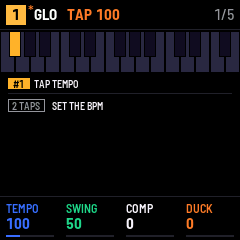
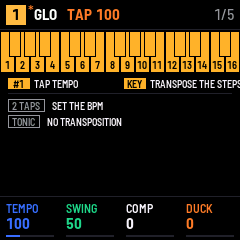
Transpose: GLO held and a key transposes every synth track's steps, in degrees of the scale with KEYS ALL, else semitones

Changed region(s): [[0.0, 0.1167, 1.0, 0.3792], [0.0292, 0.4667, 0.525, 0.5542]]

diff --git a/app/ui.c b/app/ui.c
@@ -173,7 +173,7 @@ typedef struct { q_step st; uint8_t nlocks; q_lock lk[16]; } q_clip;   /* a step
 
 /* what is on the screen, part by part: a part is drawn again when its view changes */
 typedef struct {
-    struct { int8_t track, domain, page, n, msg, pat, playing, scene, pad, ltrig, itype, punch, badge, bnum, model, dirty; uint8_t bpm; } head;   /* badge: REC's
+    struct { int8_t track, domain, page, n, msg, pat, playing, scene, pad, ltrig, itype, punch, badge, bnum, model, dirty, trans; uint8_t bpm; } head;   /* badge: REC's
                                                                                    state, 1 GRID .. 4 ARM (0 none or ARM's blink off); bnum: NOTES' step */   /* pat: P1..P8 asked; playing: the one playing when it differs, else 0;
                                                                                    pad: a KIT's in EDIT 1..16, else 0;
                                                                                    ltrig: LFO's FREE 1 / TRIG 2, else 0; itype: the insert's, in the page name */
@@ -228,6 +228,8 @@ static struct {
     int print, print_pat, print_src;           /* PRINT: the track + 1 whose pattern print_pat (of SOURCE print_src) is
                                                   written as it plays its next pass, 0 none */
     uint32_t tap_ms[4], tap_until;             /* TAP TEMPO: the last taps' times (ntap of them); its message until tap_until */
+    int transpose;                             /* GLO held, a key: the sequencer's live transposition, in KEYS' unit */
+    uint32_t trans_until;                      /* its message shown until then */
     int ntap;
     uint32_t down_ms[NB], used;                /* when each button went down; used: bit b, a key or button came while b was held */
     q_clip clip;                               /* the grid's clipboard, common to the tracks: the last step cut or chord played */
@@ -1875,14 +1877,31 @@ static void tap_tempo(void)
     ui.dirty = 1;
 }
 
+/* GLO held and a key: the synth tracks' steps transposed so that the tonic plays the key's note. KEYS ALL: in degrees of
+   the scale, white key 1 the tonic as when playing (OCT: a scale's length a step); OFF: in semitones from the tonic
+   nearest the keyboard's middle */
+static void transpose_key(int k)
+{
+    int w, deg = ui.p->keys == KEYS_ALL, t = ui.p->tonic;
+    for (w = 0; w < 16 && WHITE[w] != k; w++) {}
+    if (deg && w == 16)                 /* the black keys are silent there */
+        return;
+    ui.transpose = deg ? w + __builtin_popcount(gen_scale(ui.p)) * ui.octave
+                       : 53 + k + 12 * ui.octave - (60 + t - (t > 6 ? 12 : 0));
+    audio_transpose(ui.transpose, deg);
+    ui.trans_until = plat_ms() + MSG_MS;
+}
+
 static void key_down(int k)
 {
     q_pattern *t = pat();
     q_step *s = 0;
     int note = 53 + k + 12 * ui.octave, w, b, i;
-    if (ui.btn >> B_GLO & 1u) {         /* GLO held: black key 1 taps the tempo, the other keys nothing */
+    if (ui.btn >> B_GLO & 1u) {         /* GLO held: black key 1 taps the tempo, the other keys transpose */
         if (k == BLACK[0])
             tap_tempo();
+        else
+            transpose_key(k);
         return;
     }
     for (w = 0; w < 16 && WHITE[w] != k; w++) {}
@@ -2441,8 +2460,10 @@ static uint32_t layer_keys(int b)
     uint32_t keys = 0;
     int i;
     switch (b) {
-    case B_GLO:                         /* TAP TEMPO */
-        return 1u << BLACK[0];
+    case B_GLO:                         /* TAP TEMPO, and the keys that transpose (KEYS ALL: the white ones) */
+        for (i = 0; i < 16; i++)
+            keys |= 1u << WHITE[i];
+        return ui.p->keys == KEYS_ALL ? keys | 1u << BLACK[0] : (1u << NKEYS) - 1u;
     case B_HOME:                        /* the mutes, the scenes */
         for (i = 0; i < 16; i++)
             keys |= (uint32_t)(i < Q_TRACKS || i >= 8) << WHITE[i];
@@ -2901,7 +2922,8 @@ static void view_now(q_view *v)
     v->head.n = (int8_t)domain_n(ui.domain);
     v->head.msg = plat_ms() < ui.msg_until ? 1 : plat_ms() < ui.locks_until ? 2 : plat_ms() < ui.wipe_until ? 3 :
                   plat_ms() < ui.rnd_until ? 3 + ui.rnd_kind : plat_ms() < ui.tap_until ? 7 :
-                  plat_ms() < ui.copy_until ? 7 + ui.copy_kind : 0;
+                  plat_ms() < ui.copy_until ? 7 + ui.copy_kind : plat_ms() < ui.trans_until ? 7 + COPY_N : 0;
+    v->head.trans = (int8_t)ui.transpose;
     v->head.bpm = (uint8_t)ui.p->tempo;
     v->head.pat = (int8_t)(ui.p->pattern[ui.track] + 1);
     v->head.scene = (int8_t)ui.msg_scene;
@@ -3136,10 +3158,14 @@ static void draw_head(const q_view *v)
     if (v->head.msg) {
         x = cv_text(x + 10, 7, &FONT_B, v->head.msg == 1 ? "SAVE AT STOP" : v->head.msg == 2 ? "LOCKS FULL" : v->head.msg == 3 ? "AGAIN: ERASE"
                     : v->head.msg == 4 ? "RANDOM PAGE" : v->head.msg == 5 ? "RANDOM ALL" : v->head.msg == 6 ? "RANDOM MODEL"
-                    : v->head.msg == 7 ? "TAP" : COPY_NAME[v->head.msg - 8],
+                    : v->head.msg == 7 ? "TAP" : v->head.msg == 7 + COPY_N ? "TRANSPOSE" : COPY_NAME[v->head.msg - 8],
                     KCOL[3]);
         if (v->head.msg == 7) {         /* TAP and the tempo */
             int_text(v->head.bpm, t);
+            cv_text(x + 4, 7, &FONT_B, t, KCOL[3]);
+        } else if (v->head.msg == 7 + COPY_N) {   /* and its steps, signed */
+            t[0] = v->head.trans < 0 ? '-' : '+';
+            int_text(v->head.trans < 0 ? -v->head.trans : v->head.trans, t + 1);
             cv_text(x + 4, 7, &FONT_B, t, KCOL[3]);
         }
     } else if (v->head.punch)
@@ -3308,7 +3334,9 @@ static void draw_layer(const q_view *v, int32_t oy)
         break;
     case B_GLO:
         tags[n] = "#1", names[n++] = "TAP TEMPO";
+        tags[n] = "KEY", names[n++] = "TRANSPOSE THE STEPS";
         combo[0][0] = "2 TAPS", combo[0][1] = "SET THE BPM";
+        combo[1][0] = "TONIC", combo[1][1] = "NO TRANSPOSITION";
         break;
     case B_SEL:
         if (v->scene.lmode) {           /* NOTES: the knobs set the step without SEL */
@@ -4156,6 +4184,7 @@ int ui_expect(const char *what, int *got)
     else if (!strcmp(what, "save_at_stop")) *got = ui.save_at_stop;
     else if (!strcmp(what, "msg_wipe")) *got = plat_ms() < ui.wipe_until;
     else if (!strcmp(what, "msg_random")) *got = plat_ms() < ui.rnd_until ? ui.rnd_kind : 0;
+    else if (!strcmp(what, "transpose")) *got = ui.transpose;
     else if (!strcmp(what, "msg_copy")) *got = plat_ms() < ui.copy_until ? ui.copy_kind : 0;
     else if (!strcmp(what, "project")) *got = store_project + 1;
     else if (!strcmp(what, "msg_tap")) *got = plat_ms() < ui.tap_until;

diff --git a/app/seq.c b/app/seq.c
@@ -461,6 +461,25 @@ static int decide(q_seq *s, q_seq_track *tr, const q_step *st)
     return ok;
 }
 
+/* the note the live transposition makes of a step's note: semitones, or degrees of the project's scale (a note out of
+   the scale counts from where it is); a KIT's pads stay */
+static int transposed(const q_seq *s, const q_project *p, int t, int note)
+{
+    int d = s->transpose;
+    if (!d || p->sound[t].model == M_KIT)
+        return note;
+    if (!s->tdeg) {
+        note += d;
+    } else {
+        uint16_t m = gen_scale(p);
+        while (d > 0 && note < 127)
+            if (m >> (++note % 12) & 1) d--;
+        while (d < 0 && note > 1)
+            if (m >> (--note % 12) & 1) d++;
+    }
+    return note < 1 ? 1 : note > 127 ? 127 : note;
+}
+
 /* A tie pending from the step before: the first note-on queued is its legato. A slide ties the first note of the
    last repetition. A legato or tied note-on comes no earlier than the last one queued, so they leave the queue in
    the order planned (micro-timing can otherwise put a step's notes before the step before's) and a legato removes
@@ -478,18 +497,19 @@ static void plan_notes(q_seq *s, const q_project *p, int t, const q_step *st, in
             int64_t on = date(&tr->x, f + 4800 * j / r + strum * i), off = date(&tr->x, f + 4800 * j / r + 600 * g / r + strum * i);
             if (on < (int64_t)s->now) on = (int64_t)s->now;     /* dated before this block: at its start */
             if (!st->note[i]) continue;
+            int note = transposed(s, p, t, st->note[i]);
             int vel = acc >> i & 1 ? st->vel + 32 : st->vel;
             if (vel > 127) vel = 127;
             int tie = (st->flags & SF_SLIDE) && j == r - 1 && !hold;
             int64_t a = (tr->tie || tie) && on < from ? from : on;
             if (j == 0 && p->pat[t][tr->pat].src != SRC_STEP) {      /* a generator's: for its scene, with its frame */
                 uint32_t c = s->gcount[t] % 16u;
-                s->gnote[t][c] = st->note[i];
+                s->gnote[t][c] = (uint8_t)note;
                 s->gat[t][c] = (uint32_t)a;
                 s->gcount[t]++;
             }
             if (queue_push_on(q, (uint64_t)a, tie ? TIED : off > a ? (uint32_t)(off - a) : 0,
-                    (q_event){ 0, (uint8_t)t, st->note[i], (uint8_t)vel, 1, (uint8_t)tr->pat, (uint8_t)step,
+                    (q_event){ 0, (uint8_t)t, (uint8_t)note, (uint8_t)vel, 1, (uint8_t)tr->pat, (uint8_t)step,
                                (uint8_t)((tr->tie ? EV_LEGATO : 0) | (acc >> i & 1 ? EV_ACCENT : 0) | (j ? EV_REPEAT : 0)), 0 })) {
                 tr->tie = 0;
                 hold |= tie;

diff --git a/app/audio.c b/app/audio.c
@@ -73,6 +73,7 @@ static int fxl_pos[Q_TRACKS];
 static int duck_at;                 /* the block's first KIT BD note-on, -1 none */
 static volatile uint16_t punch_held;  /* audio_punch's: the main loop writes, the render reads */
 static volatile uint8_t fill_held;    /* audio_fill's, the same way */
+static volatile int16_t transpose_v;  /* audio_transpose's: d, degrees in bit 8 */
 static uint16_t punch_last;         /* the last block's punch-ins */
 static float punch_free;            /* stopped: the bar's position since the punch-ins began, or since the STOP */
 static float clk_c, clk_s, clk_cw, clk_sw, clk_env;   /* the click: a phasor turning by (clk_cw, clk_sw) a frame */
@@ -191,6 +192,7 @@ int audio_notes(int track, uint32_t *seen, uint8_t *out, uint32_t *in_ms, int ma
 }
 void audio_punch(uint16_t mask) { punch_held = mask; }
 void audio_fill(int on) { fill_held = (uint8_t)(on != 0); }
+void audio_transpose(int d, int degrees) { transpose_v = (int16_t)(d & 0xFF | degrees << 8); }
 int audio_pattern(int track) { return seq_pattern(&seq, track); }
 int audio_song_entry(void) { return seq_song_entry(&seq); }
 void audio_rec(int on) { recording = on; }
@@ -890,6 +892,9 @@ void app_render(int32_t *lr, uint32_t n, uint32_t master_q12)
     duck_at = -1;
     seq_click(&seq, recording && (prj->click & 1));
     seq.fill = fill_held;
+    int tv = transpose_v;               /* (one read: d and its unit together) */
+    seq.transpose = (int8_t)tv;
+    seq.tdeg = tv >> 8 & 1;
     ne = ncmd + seq_block(&seq, prj, n, ev + ncmd, EV_MAX);
     int ni = ne;
     for (int i = ncmd; i < ni; i++)   /* by date: the last note-on's step wins */

diff --git a/tests/unit/seq_test.c b/tests/unit/seq_test.c
@@ -1584,6 +1584,31 @@ static void chords_strum_overlaps(void)
     for (int k = 0; k < 2; k++)
         for (int i = 0; i < 3; i++) assert(nth(0, 1, 3 * k + i) == at16(k, 1400 * i));
 }
+/* the live transposition: semitones, or degrees of the scale (C major: E up 2 degrees is G); a KIT stays */
+static void transpose_moves_notes(void)
+{
+    static const struct { int d, deg, model, note, want; } c[] = {
+        { 3, 0, 8, 64, 67 }, { -5, 0, 8, 64, 59 }, { 2, 1, 8, 64, 67 }, { -3, 1, 8, 64, 59 }, { 1, 1, 8, 63, 64 },
+        { 7, 1, 8, 60, 72 }, { 5, 0, M_KIT, KIT_NOTE + 2, KIT_NOTE + 2 }, { 100, 0, 8, 64, 127 },
+    };
+    for (unsigned i = 0; i < sizeof c / sizeof *c; i++) {
+        setup();
+        only_step(0, 0);
+        P.sound[0].model = (uint8_t)c[i].model;
+        P.pat[0][0].steps[0].note[0] = (uint8_t)c[i].note;
+        S.transpose = c[i].d;
+        S.tdeg = c[i].deg;
+        run(30);
+        int on = -1, off = -1;
+        for (int j = 0; j < NEV; j++) {
+            if (EV[j].e.track != 0) continue;
+            if (EV[j].e.on && on < 0) on = EV[j].e.note;
+            if (!EV[j].e.on && off < 0) off = EV[j].e.note;
+        }
+        assert(on == c[i].want && off == c[i].want);
+    }
+}
+
 /* a STEP pattern printed from a generator keeps its strum */
 static void step_plays_strum_bits(void)
 {
@@ -1676,6 +1701,7 @@ int main(void)
     chords_strum_zero();
     chords_strum_overlaps();
     step_plays_strum_bits();
+    transpose_moves_notes();
     print_sends_next_pass();
     source_back_restarts_generator();
     swing_delays_odd_steps();

diff --git a/app/seq.h b/app/seq.h
@@ -41,6 +41,8 @@ typedef struct {
     uint64_t now;                   /* absolute frame of the next block */
     int mute, seen_mute;            /* the mutes played; p->mute last seen: a change applies at once */
     int fill;                       /* FILL held (audio_fill): the FILL steps play, the !FILL ones not */
+    int transpose, tdeg;            /* the live transposition (audio_transpose) of the synth tracks: semitones, or degrees of
+                                       the scale when tdeg */
     int launch, lentry, bar;        /* scene pending, -1 none; its song entry, -1 by hand; its bar, -1 the next */
     int entry, started;             /* the song entry playing, -1 none; the scene launched + 1, 0 none */
     q_clock beat;

diff --git a/app/audio.h b/app/audio.h
@@ -39,6 +39,7 @@ q_load audio_load(void);                                /* the cores' load over 
 void audio_mute(void);
 void audio_unmute(void);
 void audio_fill(int on);                                 /* FILL held: the steps with COND FILL play, !FILL not */
+void audio_transpose(int d, int degrees);               /* the synth tracks' steps d semitones (degrees: of the scale) up */
 void audio_punch(uint16_t mask);                        /* the punch-ins held, bit k = white key k + 1: from the next block on */
 int audio_playing(void);
 /* a LIFE pattern's run as the render left it (a copy read while it may write: one frame off at worst) */

diff --git a/app/docs/MANUAL.md b/app/docs/MANUAL.md
@@ -533,8 +533,12 @@ Press GLO for the project's settings, shared by the four tracks.
 
 - **TAP TEMPO**: hold GLO and tap black key 1 on the beat, from any page. From the second tap, TEMPO follows the
   mean gap of your last four taps, in whole BPM, 40–240; the header shows `TAP` and the tempo. A pause over 2 s
-  starts the count again. While playing, only the speed changes: the patterns go on from the step they are at. The
-  other keys do nothing while GLO is held.
+  starts the count again. While playing, only the speed changes: the patterns go on from the step they are at.
+- **Transpose**: hold GLO and press another key: the steps of every synth track play transposed, so that the tonic
+  sounds as that key's note (`TRANSPOSE +4`). The tonic's key puts them back. With KEYS at ALL, the white keys are
+  degrees of the scale (white key 1 the tonic, as when playing; OCT moves an octave of the scale), and the notes stay
+  in the scale; with KEYS OFF, the keys are semitones from the tonic nearest the middle of the keyboard. Only the
+  sequencer is transposed, not the keys you play nor the KIT tracks; it lasts until changed, and is not saved.
 - **SWING** delays every other step; 50 % is straight.
 - **COMP** compresses the whole mix; 0 is off. A limiter always protects the output.
 - **DUCK** lowers the synth tracks and the effects on each bass drum pad of a KIT track, up to −24 dB, like a
@@ -554,7 +558,7 @@ Press GLO for the project's settings, shared by the four tracks.
 
 ![GLO's TEMPO page: 120 BPM, SWING 50 %, COMP and DUCK bars](img/glo-tempo.png "TEMPO")
 
-![GLO held: black key 1 named TAP TEMPO, 2 TAPS to set the BPM; TAP 100 in the header](img/glo-tap.png "TAP TEMPO")
+![GLO held: black key 1 named TAP TEMPO, every key TRANSPOSE THE STEPS, 2 TAPS to set the BPM; TAP 100 in the header](img/glo-tap.png "TAP TEMPO")
 
 ![GLO's SCALE page: C MAJOR on a keyboard, QUANT 100 %, CLICK OFF](img/glo-scale.png "SCALE")
 
